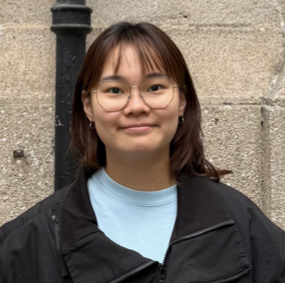
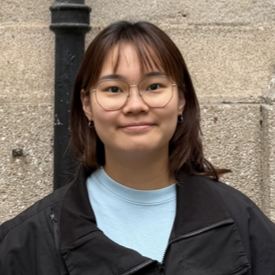
people_test5

diff --git a/_projects/yhchu.md b/_projects/yhchu.md
@@ -1,0 +1,44 @@
+---
+layout: page
+title: 劉懿純
+description: <small>碩士生</small><small><small> - 焊球構裝晶片電子元件之先進模擬技術研究</small></small>
+img: assets/img/ycliu.png
+importance: 11
+category: Graduate
+pagefind: true
+---
+
+<span class="highlight-text"><small><small>學號：R15522534 (Yi-Chuen Liu)</small></small></span>
+
+<div class="row justify-content-sm-center">
+  <div class="col-12 col-md-6 col-lg-4 mt-3 mt-md-0">
+    {% include figure.liquid loading="eager" path="assets/img/ycliu.png" title="劉懿純" class="img-fluid rounded z-depth-1" %}
+  </div>
+</div>
+
+##### <span class="highlight-text">自傳</span>
+
+本人現為國立臺灣大學機械工程學研究所碩士班一年級學生，於國立臺灣大學機械工程學系應用力學實驗室從事研究工作，指導教授為實驗室主持人王建凱副教授，期望透過理論分析、數值模擬與實驗方法，深入探討相關工程與科學問題。
+
+在學士階段之學習過程中，修習過靜力學、材料力學與機械設計等核心課程，奠定結構力學與力學分析之理論基礎，並逐步培養問題分析與研究能力。過往研究經驗中，曾參與多晶片先進封裝毛細底部填充研究計畫，對研究流程與學術方法有更全面的理解。此外，亦具備程式設計、數值分析與實驗量測之實務經驗，熟悉使用 Ansys、Inventor 與 Moldex3D 等程式與軟體工具。
+
+未來研究方向將持續聚焦於晶片封裝領域，期望結合商用軟體與理論分析之方法，提升研究成果之理論深度與實務價值，並逐步累積獨立研究與學術發表之能力。
+
+##### <span class="highlight-text">研究領域</span>
+
+固體力學、實驗力學、有限元素法、異質整合晶片封裝
+
+##### <span class="highlight-text">學歷</span>
+
+- 2026 – 迄今：機械工程碩士生，固體力學組，國立臺灣大學，臺北市，臺灣
+- 2022 – 2026：模具工程學士，國立高雄科技大學，高雄市，臺灣
+- 2019 – 2022：國立嘉義女子高級中學，嘉義市，臺灣
+
+##### <span class="highlight-text">經歷</span>
+
+- 2026 – 迄今：研究助理，機械工程學系，固體力學組，工學院，國立臺灣大學，臺北市，臺灣
+- 2026：學期實習，配件助理工程師，京元電子股份有限公司，苗栗縣，臺灣
+
+##### <span class="highlight-text">認證</span>
+
+1. 沖壓模具初級工程師認證，中華民國（2026）
